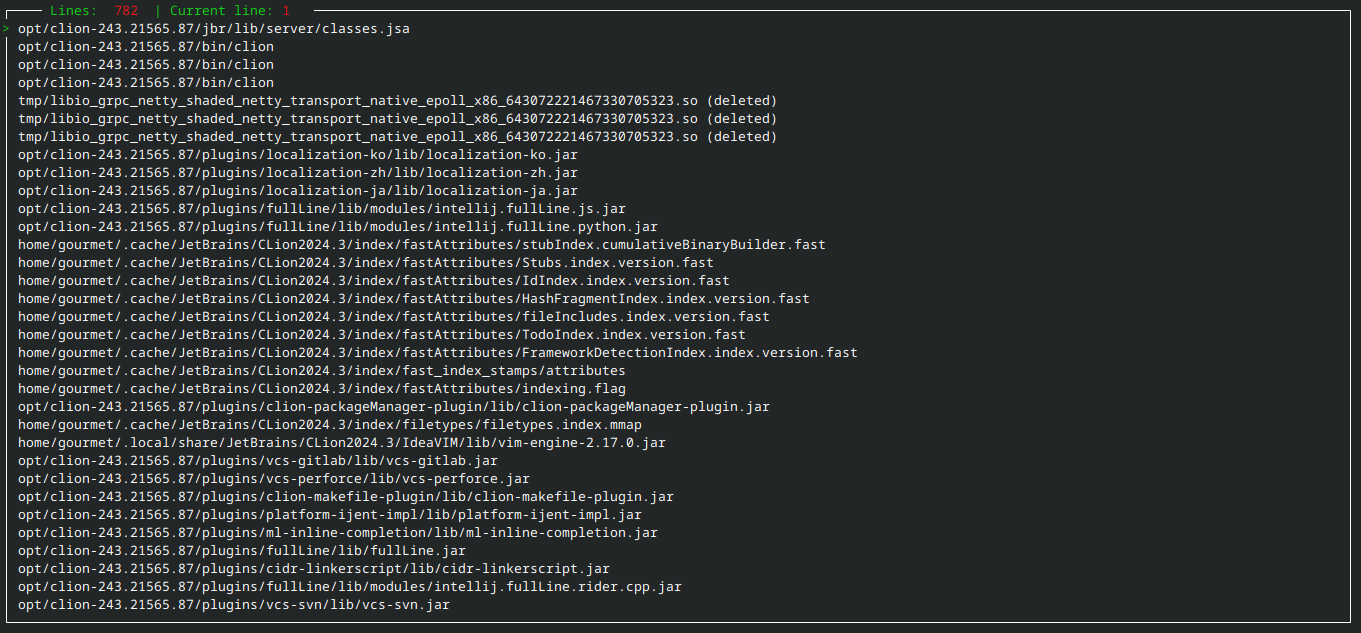
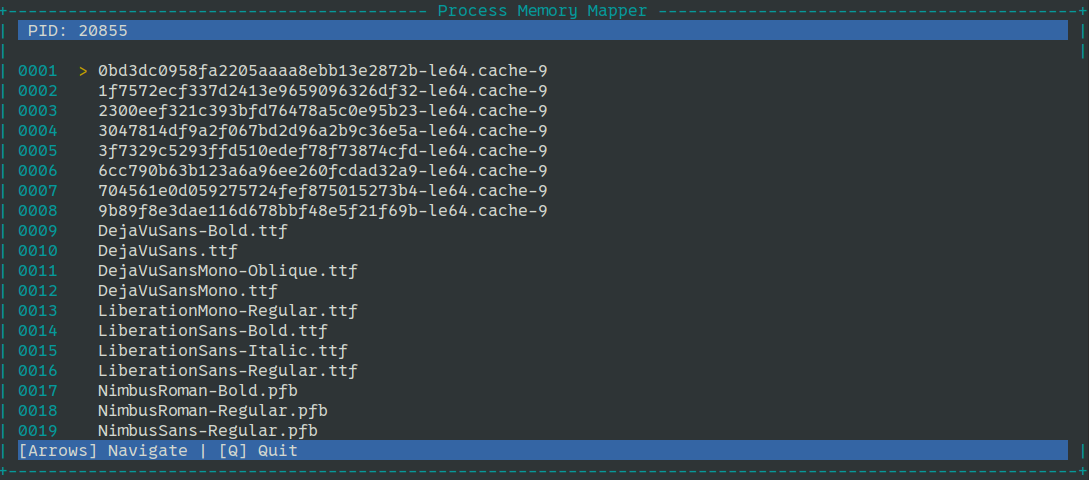
Page update

Changed region(s): [[0.0, 0.0, 0.9991, 1.0]]

diff --git a/README.md b/README.md
@@ -10,17 +10,12 @@
 
 To use the application, you will need to know the PID of the program you wish to dump. Once you have the PID, you can run the following command: 
 ```bash
-$ ./dumper -p <pid>
+$ ./dumper -p <pid> -f <input>
 ```
 
 ### 🖼 Screenshot
 
 ![Screenshot](screenshot.png)
-
-## 🗒 Planned Features
-
-- **Find string**: Identify a defined string in the process dump.  
-- **Deleted Files View**: Display only files that are no longer present in the filesystem.  
 
 ## 🤝 Support
 
